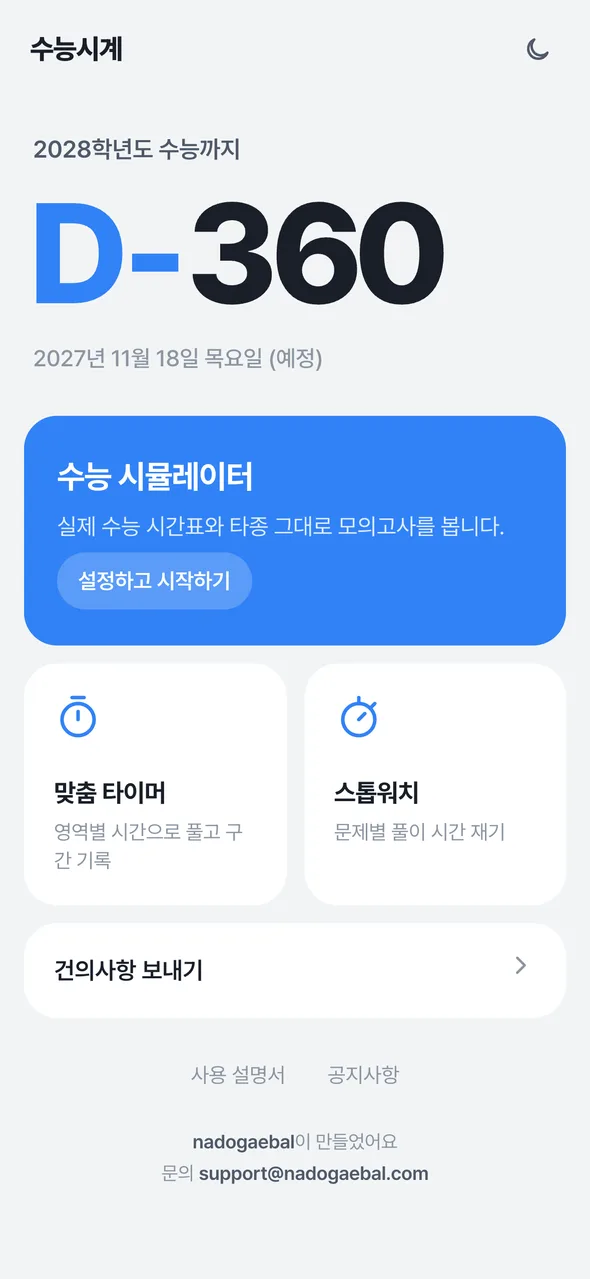
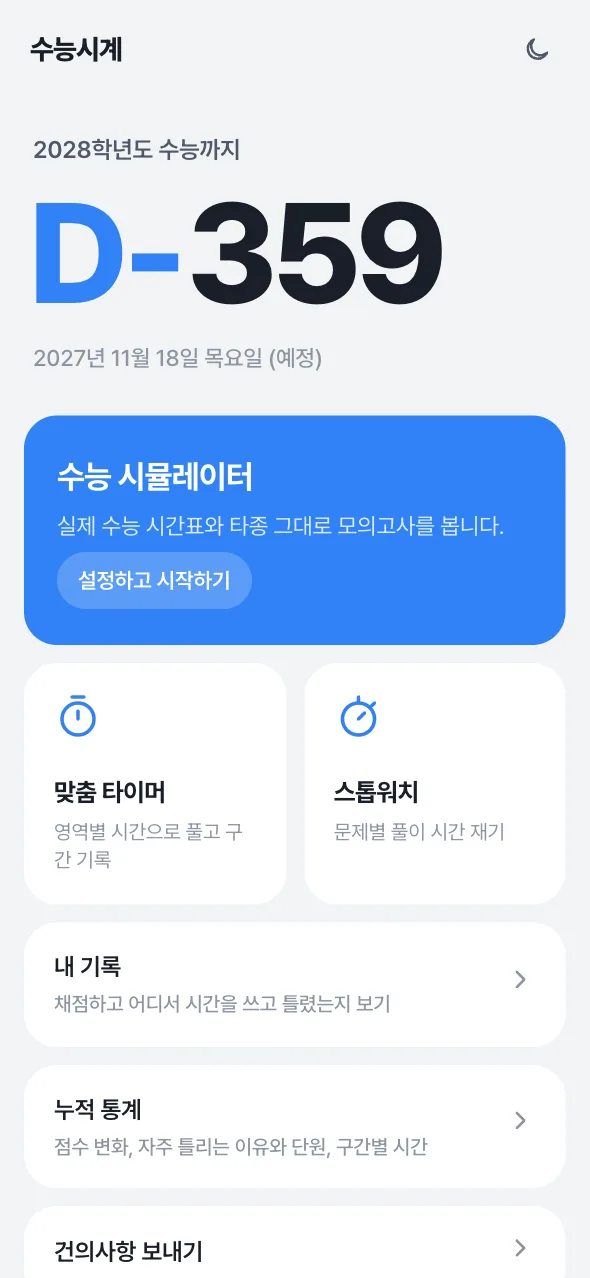
수능시계 소개: 구간별 시간 기록, 채점·틀린 문제 정리, 누적 통계 추가와 스크린샷 교체

diff --git a/csat/index.html b/csat/index.html
@@ -4,12 +4,12 @@
 <meta charset="utf-8">
 <meta name="viewport" content="width=device-width, initial-scale=1, viewport-fit=cover">
 <title>수능시계 — 실제 수능처럼 연습하는 시뮬레이터</title>
-<meta name="description" content="실제 수능 시간표와 타종 그대로 모의고사를 연습하는 무료 웹앱. 수능 시뮬레이터, 맞춤 타이머, 스톱워치. 설치 없이 브라우저에서.">
+<meta name="description" content="실제 수능 시간표와 타종 그대로 모의고사를 연습하고, 구간별 시간·채점·틀린 이유를 쌓아 누적 통계로 보는 무료 웹앱. 설치 없이 브라우저에서.">
 <meta name="theme-color" content="#f2f4f6" media="(prefers-color-scheme: light)">
 <meta name="theme-color" content="#101013" media="(prefers-color-scheme: dark)">
 <meta property="og:type" content="website">
 <meta property="og:title" content="수능시계 — 실제 수능처럼 연습하는 시뮬레이터">
-<meta property="og:description" content="실제 수능 시간표와 타종 그대로. 시뮬레이터 · 타이머 · 스톱워치">
+<meta property="og:description" content="실제 수능 시간표와 타종 그대로. 구간별 시간 · 채점 · 누적 통계">
 <meta property="og:image" content="https://nadogaebal.com/assets/csat/og.png?v=2">
 <meta property="og:url" content="https://nadogaebal.com/csat/">
 <meta name="twitter:card" content="summary_large_image">
@@ -93,7 +93,7 @@
     <div>
       <div class="brand"><img src="/assets/csat/icon.png?v=2" alt="" width="52" height="52">수능시계</div>
       <h1>실제 수능처럼,<br><em>시간표와 타종</em> 그대로</h1>
-      <p>예비령부터 종료령까지 실제 수능과 똑같이 흘러가는 모의고사 시뮬레이터. 설치 없이 브라우저에서 바로 써요.</p>
+      <p>예비령부터 종료령까지 실제 수능과 똑같이 흘러가는 모의고사 시뮬레이터. 구간마다 쓴 시간과 틀린 이유를 쌓아서, 어디서 시간을 잃고 무엇을 자주 틀리는지 보여 줘요.</p>
       <div class="cta">
         <a class="btn" href="https://csat.nadogaebal.com">무료로 시작하기</a>
         <span class="sub">회원가입 없음 · 오프라인에서도 동작</span>
@@ -107,7 +107,10 @@
   </section>
 
   <div class="shots" aria-label="앱 화면">
-    <figure><img src="/assets/csat/menu.webp" alt="수능까지 남은 날짜와 메뉴가 보이는 첫 화면" loading="lazy"><figcaption>D-day와 메뉴</figcaption></figure>
+    <figure><img src="/assets/csat/menu.webp?v=3" alt="수능까지 남은 날짜와 메뉴가 보이는 첫 화면" loading="lazy"><figcaption>D-day와 메뉴</figcaption></figure>
+    <figure><img src="/assets/csat/simulator-unit.webp?v=3" alt="수학 시험 중 지금 푸는 구간과 다음·넘김 버튼이 보이는 시뮬레이터" loading="lazy"><figcaption>구간별 시간 기록</figcaption></figure>
+    <figure><img src="/assets/csat/record.webp?v=3" alt="채점 번호판과 틀린 문제마다 이유와 단원을 고르는 기록 화면" loading="lazy"><figcaption>채점과 틀린 문제 정리</figcaption></figure>
+    <figure><img src="/assets/csat/stats.webp?v=3" alt="수학 점수 변화 그래프와 자주 틀리는 이유가 보이는 누적 통계" loading="lazy"><figcaption>누적 통계</figcaption></figure>
     <figure><img src="/assets/csat/simulator.webp" alt="1교시 예비령이 진행 중인 시뮬레이터 화면 (다크 모드)" loading="lazy"><figcaption>수능 시뮬레이터 (다크 모드)</figcaption></figure>
     <figure><img src="/assets/csat/timer.webp" alt="국어 80분이 설정된 맞춤 타이머" loading="lazy"><figcaption>맞춤 타이머</figcaption></figure>
   </div>
@@ -120,11 +123,31 @@
       <ul>
         <li>예비령 · 준비령 · 본령 · 쉬는 시간 타종을 실제 수능 순서대로</li>
         <li>종료 10분 전(4교시는 5분 전) 안내 방송</li>
-        <li>영어 듣기 파일을 넣으면 실제처럼 시간에 맞춰 재생</li>
-        <li><b>지금 바로</b> 시작하거나, <b>실제 수능 시각</b>에 맞춰 자동 진행</li>
-        <li>문제마다 랩 기록 → 끝나면 결과 보고서(PDF)</li>
+        <li>영어 듣기: 파일을 넣으면 실제처럼 시간에 맞춰 재생, 다른 기기로 듣기, 독해만 45분 연습</li>
+        <li><b>지금 바로</b> 시작하거나, <b>실제 수능 시각</b>에 맞춰 자동 진행 (지났으면 다음 날 그 시각까지 대기)</li>
         <li>새로고침하거나 앱을 다시 열어도 이어서 진행</li>
       </ul>
+    </div>
+    <div class="card wide">
+      <div class="ic">🧭</div>
+      <h3>구간·문제별 시간 기록</h3>
+      <ul>
+        <li>국어 독서론 → 문학 → 선택과목처럼 <b>푸는 순서</b>를 미리 정해 두고, 시험 중에는 <b>다음</b>과 <b>넘김</b>만 눌러요</li>
+        <li>넘긴 구간은 목록에서 눌러 돌아오고, 넘기기 전과 돌아온 뒤 시간이 따로 남아요</li>
+        <li>수학은 공통·선택 객관식/주관식, 또는 문제 하나하나로</li>
+        <li>영어 듣기 중에 독해를 같이 풀면 "그중 듣기 중" 시간도 따로 보여요</li>
+        <li>시험 중에는 집중을 깨지 않게 지금 구간 하나만 보여 줘요</li>
+      </ul>
+    </div>
+    <div class="card">
+      <div class="ic">✍</div>
+      <h3>채점과 틀린 문제 정리</h3>
+      <p>끝나면 기록이 쌓여요. 번호판에 틀림·찍음을 표시하고, 문제마다 <b>왜 틀렸는지</b>와 <b>단원</b>을 골라요. 이유와 단원은 과목마다 따로 있고 직접 추가할 수도 있어요. 결과는 PDF로 저장.</p>
+    </div>
+    <div class="card">
+      <div class="ic">📈</div>
+      <h3>누적 통계</h3>
+      <p>과목별 점수 변화, 자주 틀리는 이유와 단원, 구간별 평균 시간과 못 끝낸 횟수를 한눈에 봐요. 기록은 모두 내 기기 안에만 저장돼요.</p>
     </div>
     <div class="card">
       <div class="ic">⏱</div>
